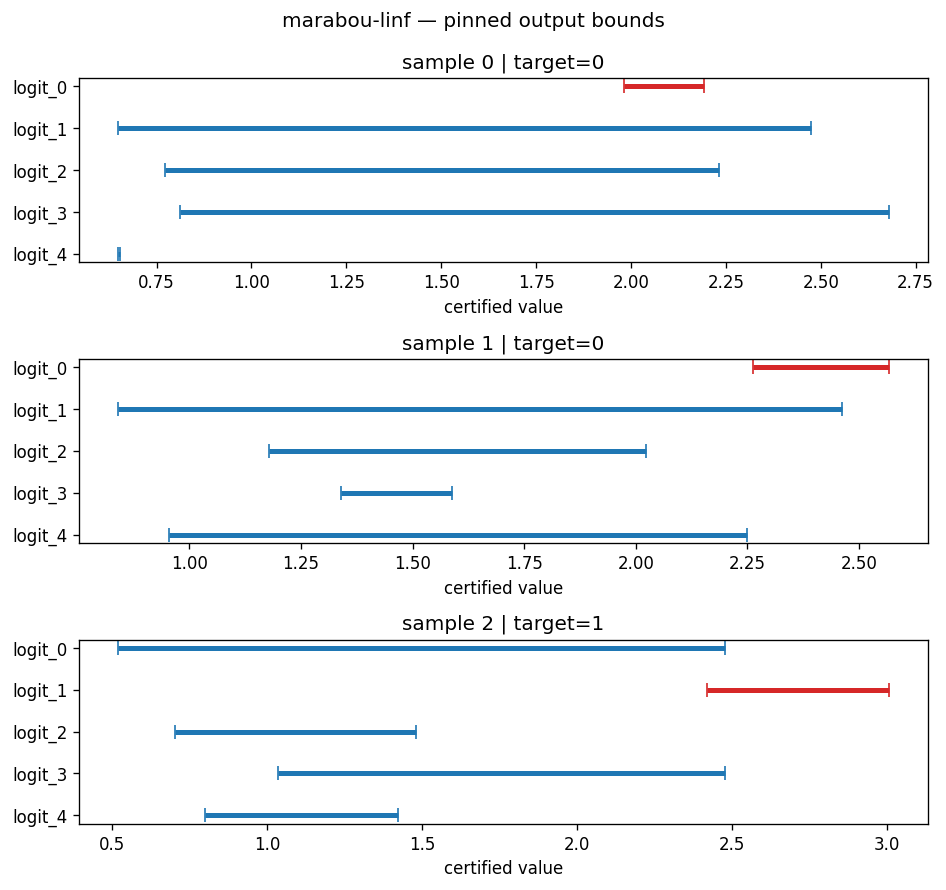
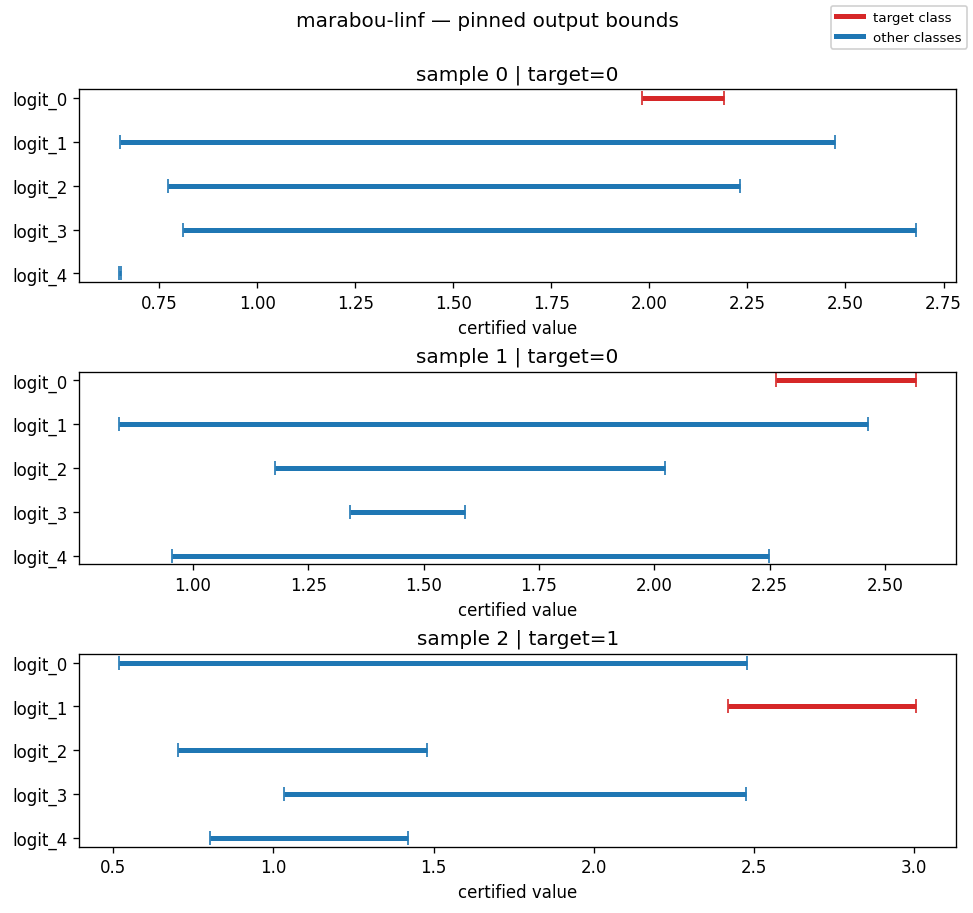
feat(robustness): legible keys and class cap on bound visualisers

diff --git a/src/raitap/robustness/visualisers/formal/output_bounds_pinned.py b/src/raitap/robustness/visualisers/formal/output_bounds_pinned.py
@@ -25,6 +25,7 @@ from typing import TYPE_CHECKING, Any
 
 import matplotlib.pyplot as plt
 import numpy as np
+from matplotlib.lines import Line2D
 
 from raitap.robustness.visualisers.registration import robustness_visualiser
 
@@ -41,7 +42,8 @@ if TYPE_CHECKING:
 
 
 _PLACEHOLDER_NO_BOUNDS = (
-    "No output bounds present — configure `compute_output_bounds=True` on MarabouAssessor"
+    "No output bounds present — use a verifier that emits certified bounds "
+    "(AutoLiRPAAssessor, or MarabouAssessor with `compute_output_bounds=True`)"
 )
 _NO_BOUND_COLOR = "#bfbfbf"
 
@@ -65,16 +67,35 @@ class OutputBoundsPinnedVisualiser(BaseRobustnessVisualiser):
         self,
         *,
         max_samples: int = 4,
+        max_classes: int = 20,
         target_color: str = "#d62728",
         bar_color: str = "#1f77b4",
         sample_indices: Sequence[int] | None = None,
     ) -> None:
         self.max_samples = max(int(max_samples), 1)
+        # Cap the number of output classes drawn per subplot. Above this, one
+        # row + y-tick per class (e.g. 1000 for ImageNet) collapses into an
+        # unreadable smear, so we show the target plus the classes with the
+        # largest certified upper bounds (the competitors that decide whether
+        # the target is dominated). At or below the cap, every class is shown
+        # exactly as before.
+        self.max_classes = max(int(max_classes), 1)
         self.target_color = target_color
         self.bar_color = bar_color
         self.sample_indices: tuple[int, ...] | None = (
             tuple(int(i) for i in sample_indices) if sample_indices is not None else None
         )
+
+    def _select_classes(self, upper_row: np.ndarray, target_k: int, n_classes: int) -> list[int]:
+        """Return the class indices to draw for one sample (ascending order)."""
+        if n_classes <= self.max_classes:
+            return list(range(n_classes))
+        # Rank by certified upper bound (NaN/no-bound classes sink to the bottom).
+        ranked = np.argsort(np.nan_to_num(upper_row, nan=-np.inf))[::-1]
+        chosen: list[int] = [int(k) for k in ranked[: self.max_classes]]
+        if 0 <= target_k < n_classes and target_k not in chosen:
+            chosen[-1] = target_k  # guarantee the target interval is visible.
+        return sorted(set(chosen))
 
     def visualise(
         self,
@@ -110,31 +131,49 @@ class OutputBoundsPinnedVisualiser(BaseRobustnessVisualiser):
         sample_names = context.sample_names or []
 
         n = len(selected)
-        fig, axes = plt.subplots(n, 1, figsize=(8, 2.5 * n), squeeze=False)
+        fig, axes = plt.subplots(n, 1, figsize=(8, 2.5 * n), squeeze=False, layout="constrained")
 
+        drew_no_bound = False
         for row_idx, sample_index in enumerate(selected):
             ax = axes[row_idx][0]
             target_k = int(targets[sample_index]) if sample_index < len(targets) else -1
-            for k in range(n_classes):
+            shown = self._select_classes(upper[sample_index], target_k, n_classes)
+            for pos, k in enumerate(shown):
                 lo = lower[sample_index, k]
                 hi = upper[sample_index, k]
                 color = self.target_color if k == target_k else self.bar_color
                 if not (np.isfinite(lo) and np.isfinite(hi)):
-                    ax.hlines(k, -0.5, 0.5, colors=_NO_BOUND_COLOR, linewidth=1.0)
+                    ax.hlines(pos, -0.5, 0.5, colors=_NO_BOUND_COLOR, linewidth=1.0)
+                    drew_no_bound = True
                     continue
-                ax.hlines(k, lo, hi, colors=color, linewidth=3.0)
-                ax.plot([lo, hi], [k, k], "|", color=color, markersize=8)
+                ax.hlines(pos, lo, hi, colors=color, linewidth=3.0)
+                ax.plot([lo, hi], [pos, pos], "|", color=color, markersize=8)
 
-            ax.set_yticks(range(n_classes))
-            ax.set_yticklabels([f"logit_{k}" for k in range(n_classes)])
+            ax.set_yticks(range(len(shown)))
+            ax.set_yticklabels([f"logit_{k}" for k in shown])
             ax.invert_yaxis()
             ax.set_xlabel("certified value")
 
             title = f"sample {sample_index} | target={target_k}"
+            if len(shown) < n_classes:
+                title += f" | top {len(shown)}/{n_classes} classes"
             if context.show_sample_names and sample_names and sample_index < len(sample_names):
                 title = f"{sample_names[sample_index]} ({title})"
             ax.set_title(title)
 
+        # Figure-level legend (placed OUTSIDE the axes so it never sits on top of
+        # the bars) so the red/blue/grey coding is readable without the docs: each
+        # bar is a class's certified [lower, upper] logit range; VERIFIED means the
+        # target bar sits fully right of every other bar.
+        handles = [
+            Line2D([0], [0], color=self.target_color, lw=3, label="target class"),
+            Line2D([0], [0], color=self.bar_color, lw=3, label="other classes"),
+        ]
+        if drew_no_bound:
+            handles.append(
+                Line2D([0], [0], color=_NO_BOUND_COLOR, lw=1, label="no certified bound")
+            )
+        fig.legend(handles=handles, loc="outside upper right", fontsize=8, framealpha=0.9)
+
         fig.suptitle(f"{context.algorithm} — pinned output bounds", fontsize=12)
-        fig.tight_layout()
         return fig

diff --git a/src/raitap/robustness/visualisers/empirical/image_pair_visualiser.py b/src/raitap/robustness/visualisers/empirical/image_pair_visualiser.py
@@ -70,7 +70,9 @@ class ImagePairVisualiser(BaseRobustnessVisualiser):
         columns.append("perturbed")
         if include_perturbation_map:
             columns.append("perturbation")
-        fig, axes = plt.subplots(n, len(columns), figsize=(3 * len(columns), 3 * n), squeeze=False)
+        fig, axes = plt.subplots(
+            n, len(columns), figsize=(3 * len(columns), 3 * n), squeeze=False, layout="constrained"
+        )
 
         scale = self.diff_scale
         diff_extreme = float(
@@ -84,6 +86,7 @@ class ImagePairVisualiser(BaseRobustnessVisualiser):
         display_lo, display_hi = _shared_display_range(clean[:n], perturbed[:n])
 
         sample_names = context.sample_names or []
+        diff_image = None  # last-drawn perturbation image, for a shared colorbar.
 
         for row in range(n):
             clean_image = _as_displayable(clean[row], lo=display_lo, hi=display_hi)
@@ -115,11 +118,18 @@ class ImagePairVisualiser(BaseRobustnessVisualiser):
                     )
                     axis.set_title(_format_title("perturbed", adv_pred, target_label, sample_title))
                 else:
-                    axis.imshow(diff, cmap=self.cmap, vmin=-diff_extreme, vmax=diff_extreme)
+                    diff_image = axis.imshow(
+                        diff, cmap=self.cmap, vmin=-diff_extreme, vmax=diff_extreme
+                    )
                     axis.set_title("perturbation")
                 axis.set_axis_off()
         fig.suptitle(f"{context.algorithm} — clean vs perturbed", fontsize=12)
-        fig.tight_layout()
+        if diff_image is not None and include_perturbation_map:
+            # Shared colorbar for the perturbation column: red = positive, blue =
+            # negative; magnitude = how hard each pixel was pushed (shared scale).
+            # Constrained layout places it beside the column without overlap.
+            bar = fig.colorbar(diff_image, ax=axes[:, columns.index("perturbation")].tolist())
+            bar.set_label("signed perturbation")
         return fig
 
 

diff --git a/src/raitap/robustness/visualisers/tests/test_output_bounds_visualisers.py b/src/raitap/robustness/visualisers/tests/test_output_bounds_visualisers.py
@@ -179,6 +179,22 @@ def test_pinned_visualiser_default_picks_first_finite_samples() -> None:
         plt.close(figure)
 
 
+def test_pinned_visualiser_caps_classes_and_keeps_target() -> None:
+    # Many output classes (e.g. ImageNet) must not render 1000 overlapping rows;
+    # cap to max_classes and always keep the target class visible.
+    n, k = 2, 60
+    result = _formal_result(n=n, k=k)  # default bounds finite for all classes.
+    figure = OutputBoundsPinnedVisualiser(max_classes=15).visualise(result, context=_ctx())
+    try:
+        ax = figure.axes[0]  # sample 0 → target class 0.
+        labels = [t.get_text() for t in ax.get_yticklabels()]
+        assert len(labels) == 15  # capped, not 60.
+        assert "logit_0" in labels  # target interval guaranteed shown.
+        assert "top 15/60 classes" in ax.get_title()
+    finally:
+        plt.close(figure)
+
+
 def test_pinned_visualiser_uses_sample_indices_kwarg_when_present() -> None:
     result = _formal_result(n=5, k=4)
     visualiser = OutputBoundsPinnedVisualiser(sample_indices=[3])

diff --git a/src/raitap/robustness/visualisers/tests/test_visualisers.py b/src/raitap/robustness/visualisers/tests/test_visualisers.py
@@ -24,6 +24,11 @@ from raitap.robustness.visualisers import (
 )
 
 
+def _image_axes(figure: plt.Figure) -> list[plt.Axes]:
+    """Image panels only — drop the colorbar Axes matplotlib appends."""
+    return [ax for ax in figure.axes if ax.get_label() != "<colorbar>"]
+
+
 def _make_result() -> RobustnessResult:
     inputs = torch.rand(2, 3, 8, 8)
     perturbed = (inputs + 0.05).clamp(0.0, 1.0)
@@ -69,7 +74,7 @@ def test_image_pair_visualiser_renders_figure() -> None:
     visualiser.validate_result(result)
     figure = visualiser.visualise(result, context=_empirical_context())
     try:
-        assert len(figure.axes) == 6  # 2 rows by 3 columns
+        assert len(_image_axes(figure)) == 6  # 2 rows by 3 columns (excl. colorbar)
     finally:
         plt.close(figure)
 
@@ -98,8 +103,9 @@ def test_image_pair_visualiser_honours_facet_kwargs(
     figure = visualiser.visualise(result, context=_empirical_context(), **kwargs)
 
     try:
-        assert len(figure.axes) == expected_axes
-        for axis, expected in zip(figure.axes, expected_titles, strict=True):
+        image_axes = _image_axes(figure)
+        assert len(image_axes) == expected_axes
+        for axis, expected in zip(image_axes, expected_titles, strict=True):
             assert expected in axis.get_title()
     finally:
         plt.close(figure)
@@ -122,7 +128,7 @@ def test_perturbation_heatmap_visualiser_renders_figure() -> None:
         include_clean_input=False,
     )
     try:
-        assert len(figure.axes) == 2
+        assert len(_image_axes(figure)) == 2
     finally:
         plt.close(figure)
 

diff --git a/src/raitap/robustness/visualisers/empirical/perturbation_heatmap_visualiser.py b/src/raitap/robustness/visualisers/empirical/perturbation_heatmap_visualiser.py
@@ -84,22 +84,29 @@ class PerturbationHeatmapVisualiser(BaseRobustnessVisualiser):
         perturbed = _to_image_batch(result.perturbed_inputs)
         delta = (perturbed - clean).detach().cpu().to(torch.float32)
         n = min(int(delta.shape[0]), self.max_samples)
-        fig, axes = plt.subplots(1, n, figsize=(3 * n, 3.2), squeeze=False)
+        fig, axes = plt.subplots(1, n, figsize=(3 * n, 3.2), squeeze=False, layout="constrained")
 
         sample_names = context.sample_names or []
         global_extreme = float(delta[:n].abs().max().item())
         global_extreme = max(global_extreme, 1e-6)
 
+        image = None
         for col in range(n):
             heatmap = _aggregate(delta[col], self.aggregate_channels)
-            axes[0][col].imshow(heatmap, cmap=self.cmap, vmin=-global_extreme, vmax=global_extreme)
+            image = axes[0][col].imshow(
+                heatmap, cmap=self.cmap, vmin=-global_extreme, vmax=global_extreme
+            )
             axes[0][col].set_axis_off()
             sample_title = (
                 sample_names[col] if context.show_sample_names and col < len(sample_names) else ""
             )
             axes[0][col].set_title(sample_title or f"sample {col}")
         fig.suptitle(f"{context.algorithm} — perturbation heatmap", fontsize=12)
-        fig.tight_layout()
+        if image is not None:
+            # Shared colorbar (same scale across samples) so the reader can map
+            # colour to perturbation sign/magnitude without the docs.
+            bar = fig.colorbar(image, ax=axes[0].tolist())
+            bar.set_label("signed perturbation")
         return fig
 
 

diff --git a/docs/modules/robustness/frameworks-and-libraries.md b/docs/modules/robustness/frameworks-and-libraries.md
@@ -54,7 +54,7 @@ they receive. In short:
 | `PerturbationHeatmapVisualiser` | `EMPIRICAL_ATTACK` | Per-sample diverging heatmap of the perturbation. Default channel reduction is `signed_dominant` (preserves sign without cancelling opposing channels). Other modes: `mean`, `mean_abs`, `max_abs`. |
 | `VerdictSummaryVisualiser` | `FORMAL_VERIFICATION` | Two-panel summary: verdict-count bar chart plus a runtime histogram per verified sample. |
 | `OutputBoundsCohortVisualiser` | `FORMAL_VERIFICATION` | Boxplot of certified per-class output-bound widths (`upper - lower`) across the verified batch. Constructor kwargs: `whis`, `show_outliers`. Renders a placeholder figure when `result.output_bounds is None` or all rows are NaN. |
-| `OutputBoundsPinnedVisualiser` | `FORMAL_VERIFICATION` | Per-sample plot of `[lower_k, upper_k]` certified intervals for each output class with the target class highlighted. Constructor kwargs: `max_samples`, `target_color`, `bar_color`, `sample_indices`. Falls back to a placeholder when bounds are absent. |
+| `OutputBoundsPinnedVisualiser` | `FORMAL_VERIFICATION` | Per-sample plot of `[lower_k, upper_k]` certified intervals for each output class with the target class highlighted. Constructor kwargs: `max_samples`, `max_classes` (default 20 — above it, shows the target plus the classes with the largest certified upper bounds so many-class models like ImageNet stay legible), `target_color`, `bar_color`, `sample_indices`. Falls back to a placeholder when bounds are absent. |
 | `OutputBoundsWidthHeatmapVisualiser` | `FORMAL_VERIFICATION` | Heatmap of certified per-class output-bound widths (`upper - lower`) across the verified batch (rows = samples, columns = classes). Constructor kwargs: `cmap`, `max_samples`, `figsize`. Renders a placeholder figure when `result.output_bounds is None` or every row is NaN. |
 | `OutputBoundsMarginHeatmapVisualiser` | `FORMAL_VERIFICATION` | Heatmap of signed per-class margins relative to the target class's lower bound (rows = samples, columns = classes; target cell masked). Constructor kwargs: `cmap`, `max_samples`, `figsize`. Falls back to a placeholder when bounds or targets are absent. |
 | `CorruptionAccuracyVisualiser` | `STATISTICAL_SAMPLING` | Clean vs corrupted accuracy bars with a CI whisker. Annotated with corruption name, severity, and N. |